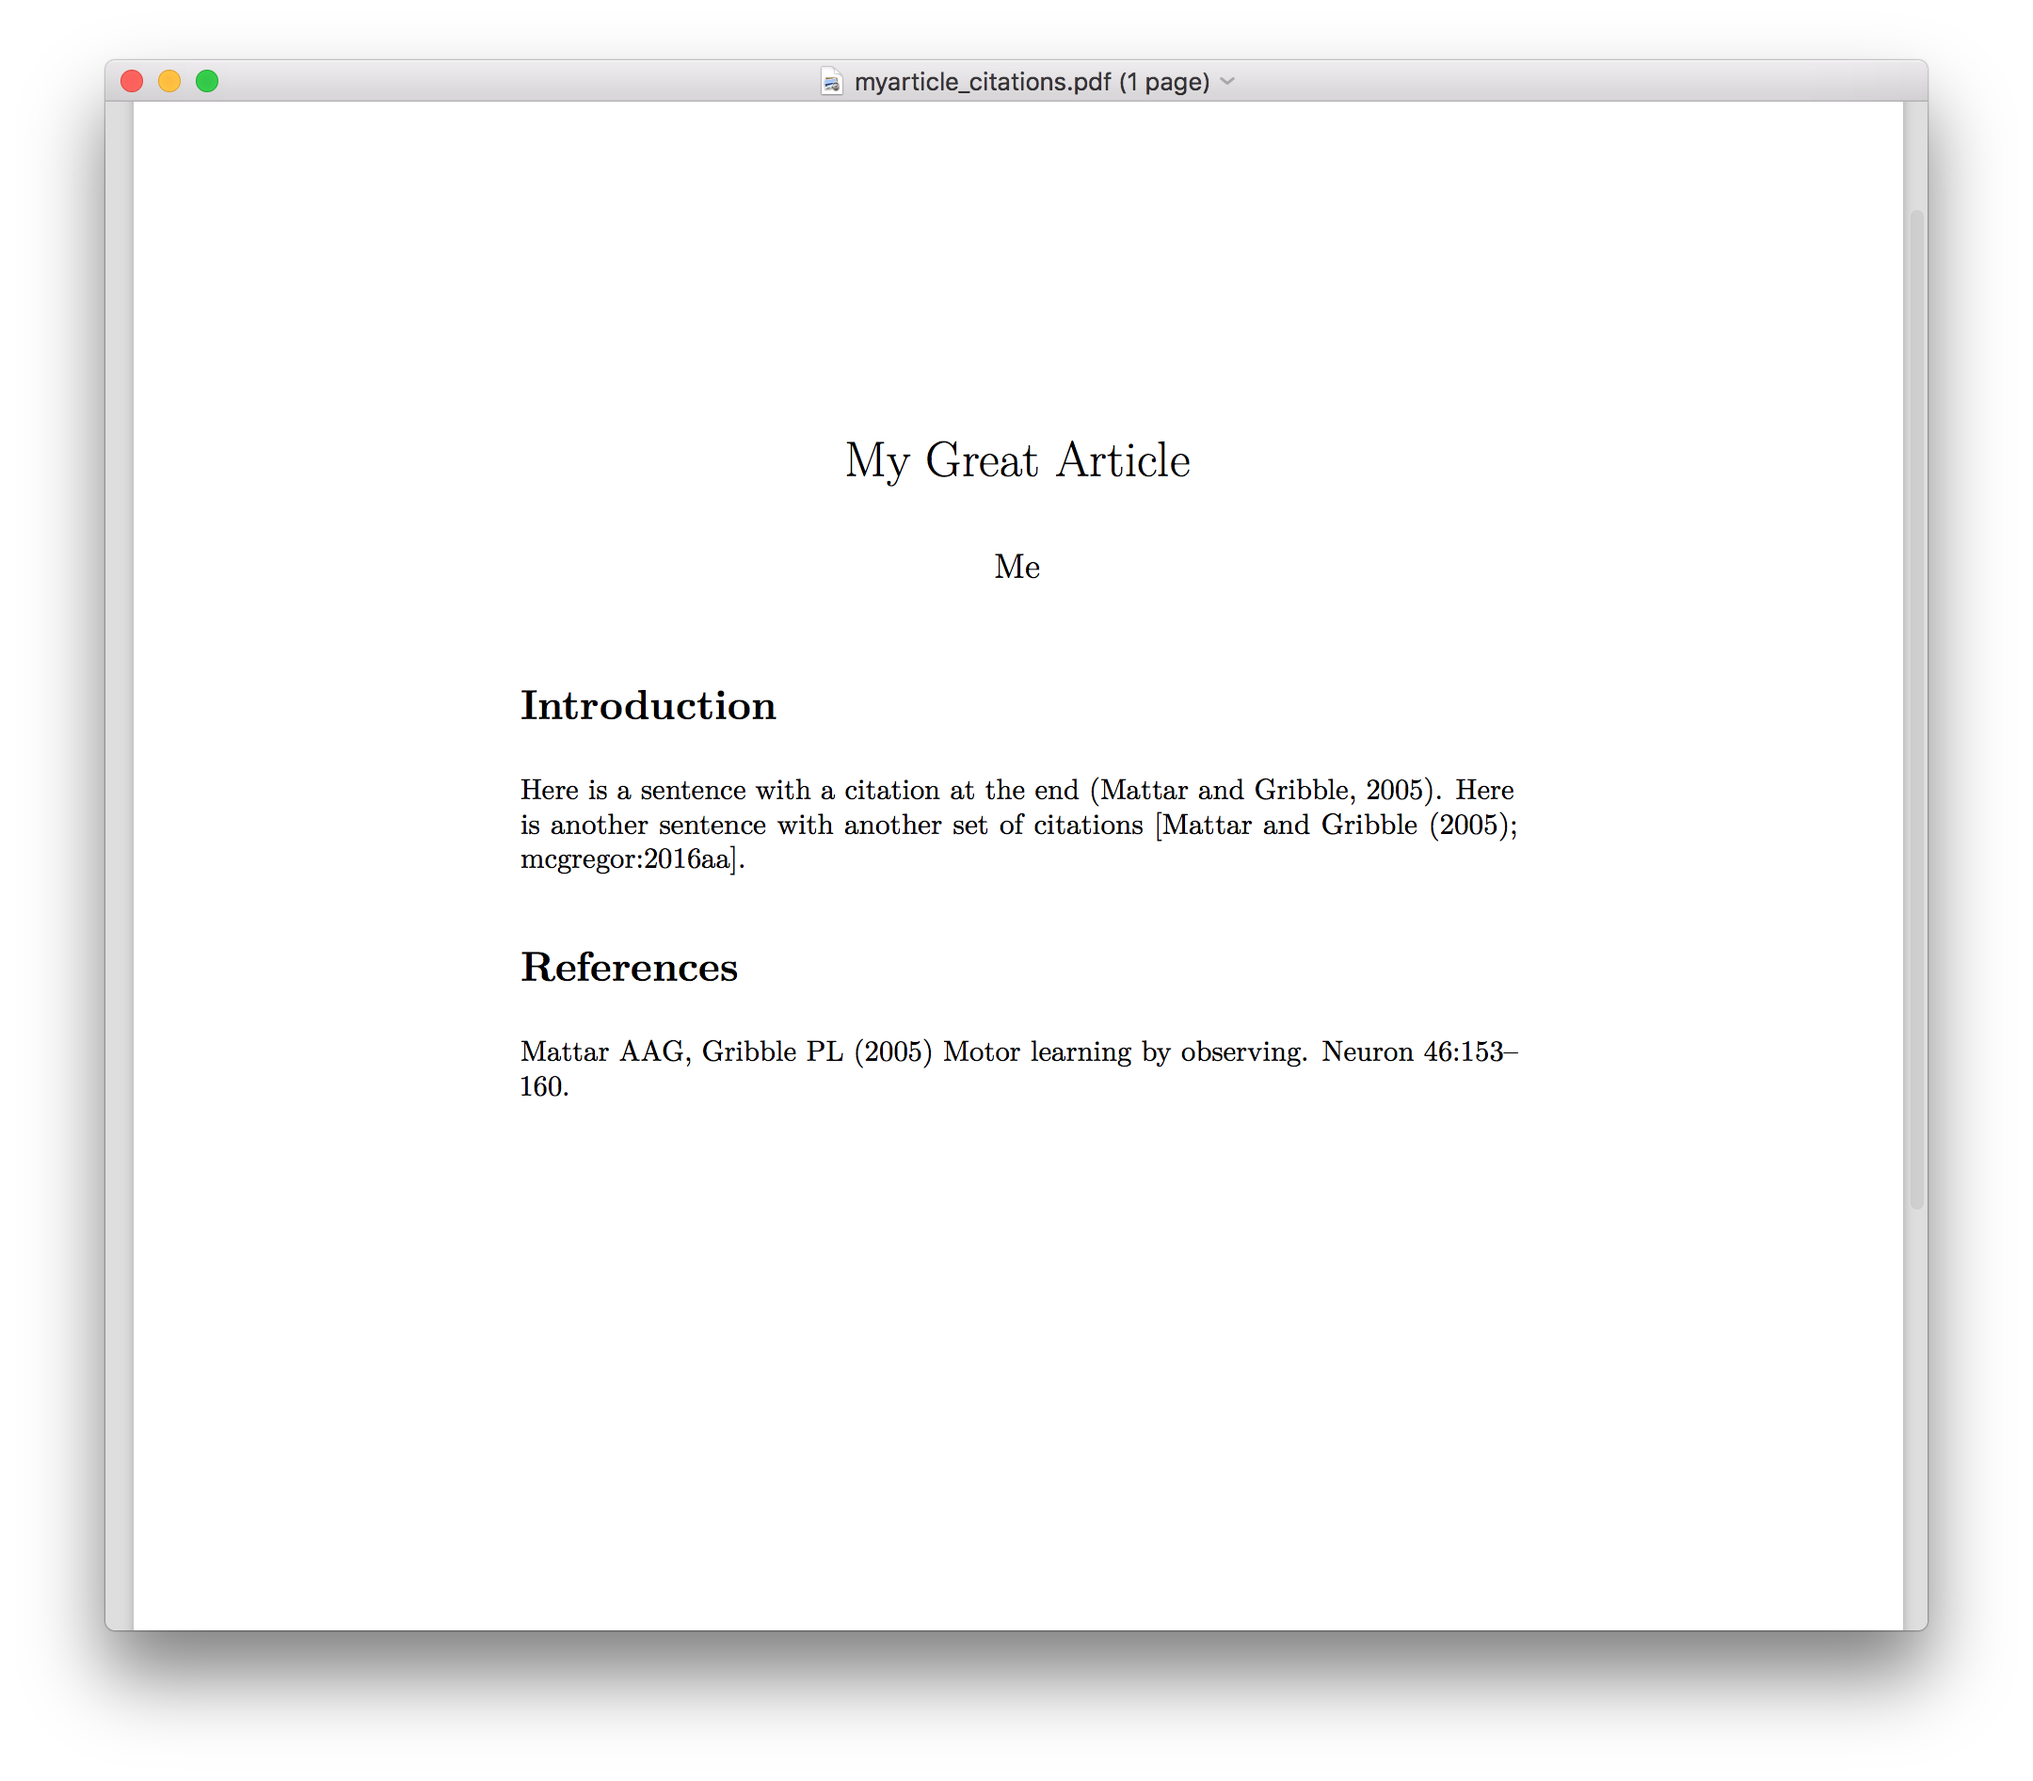
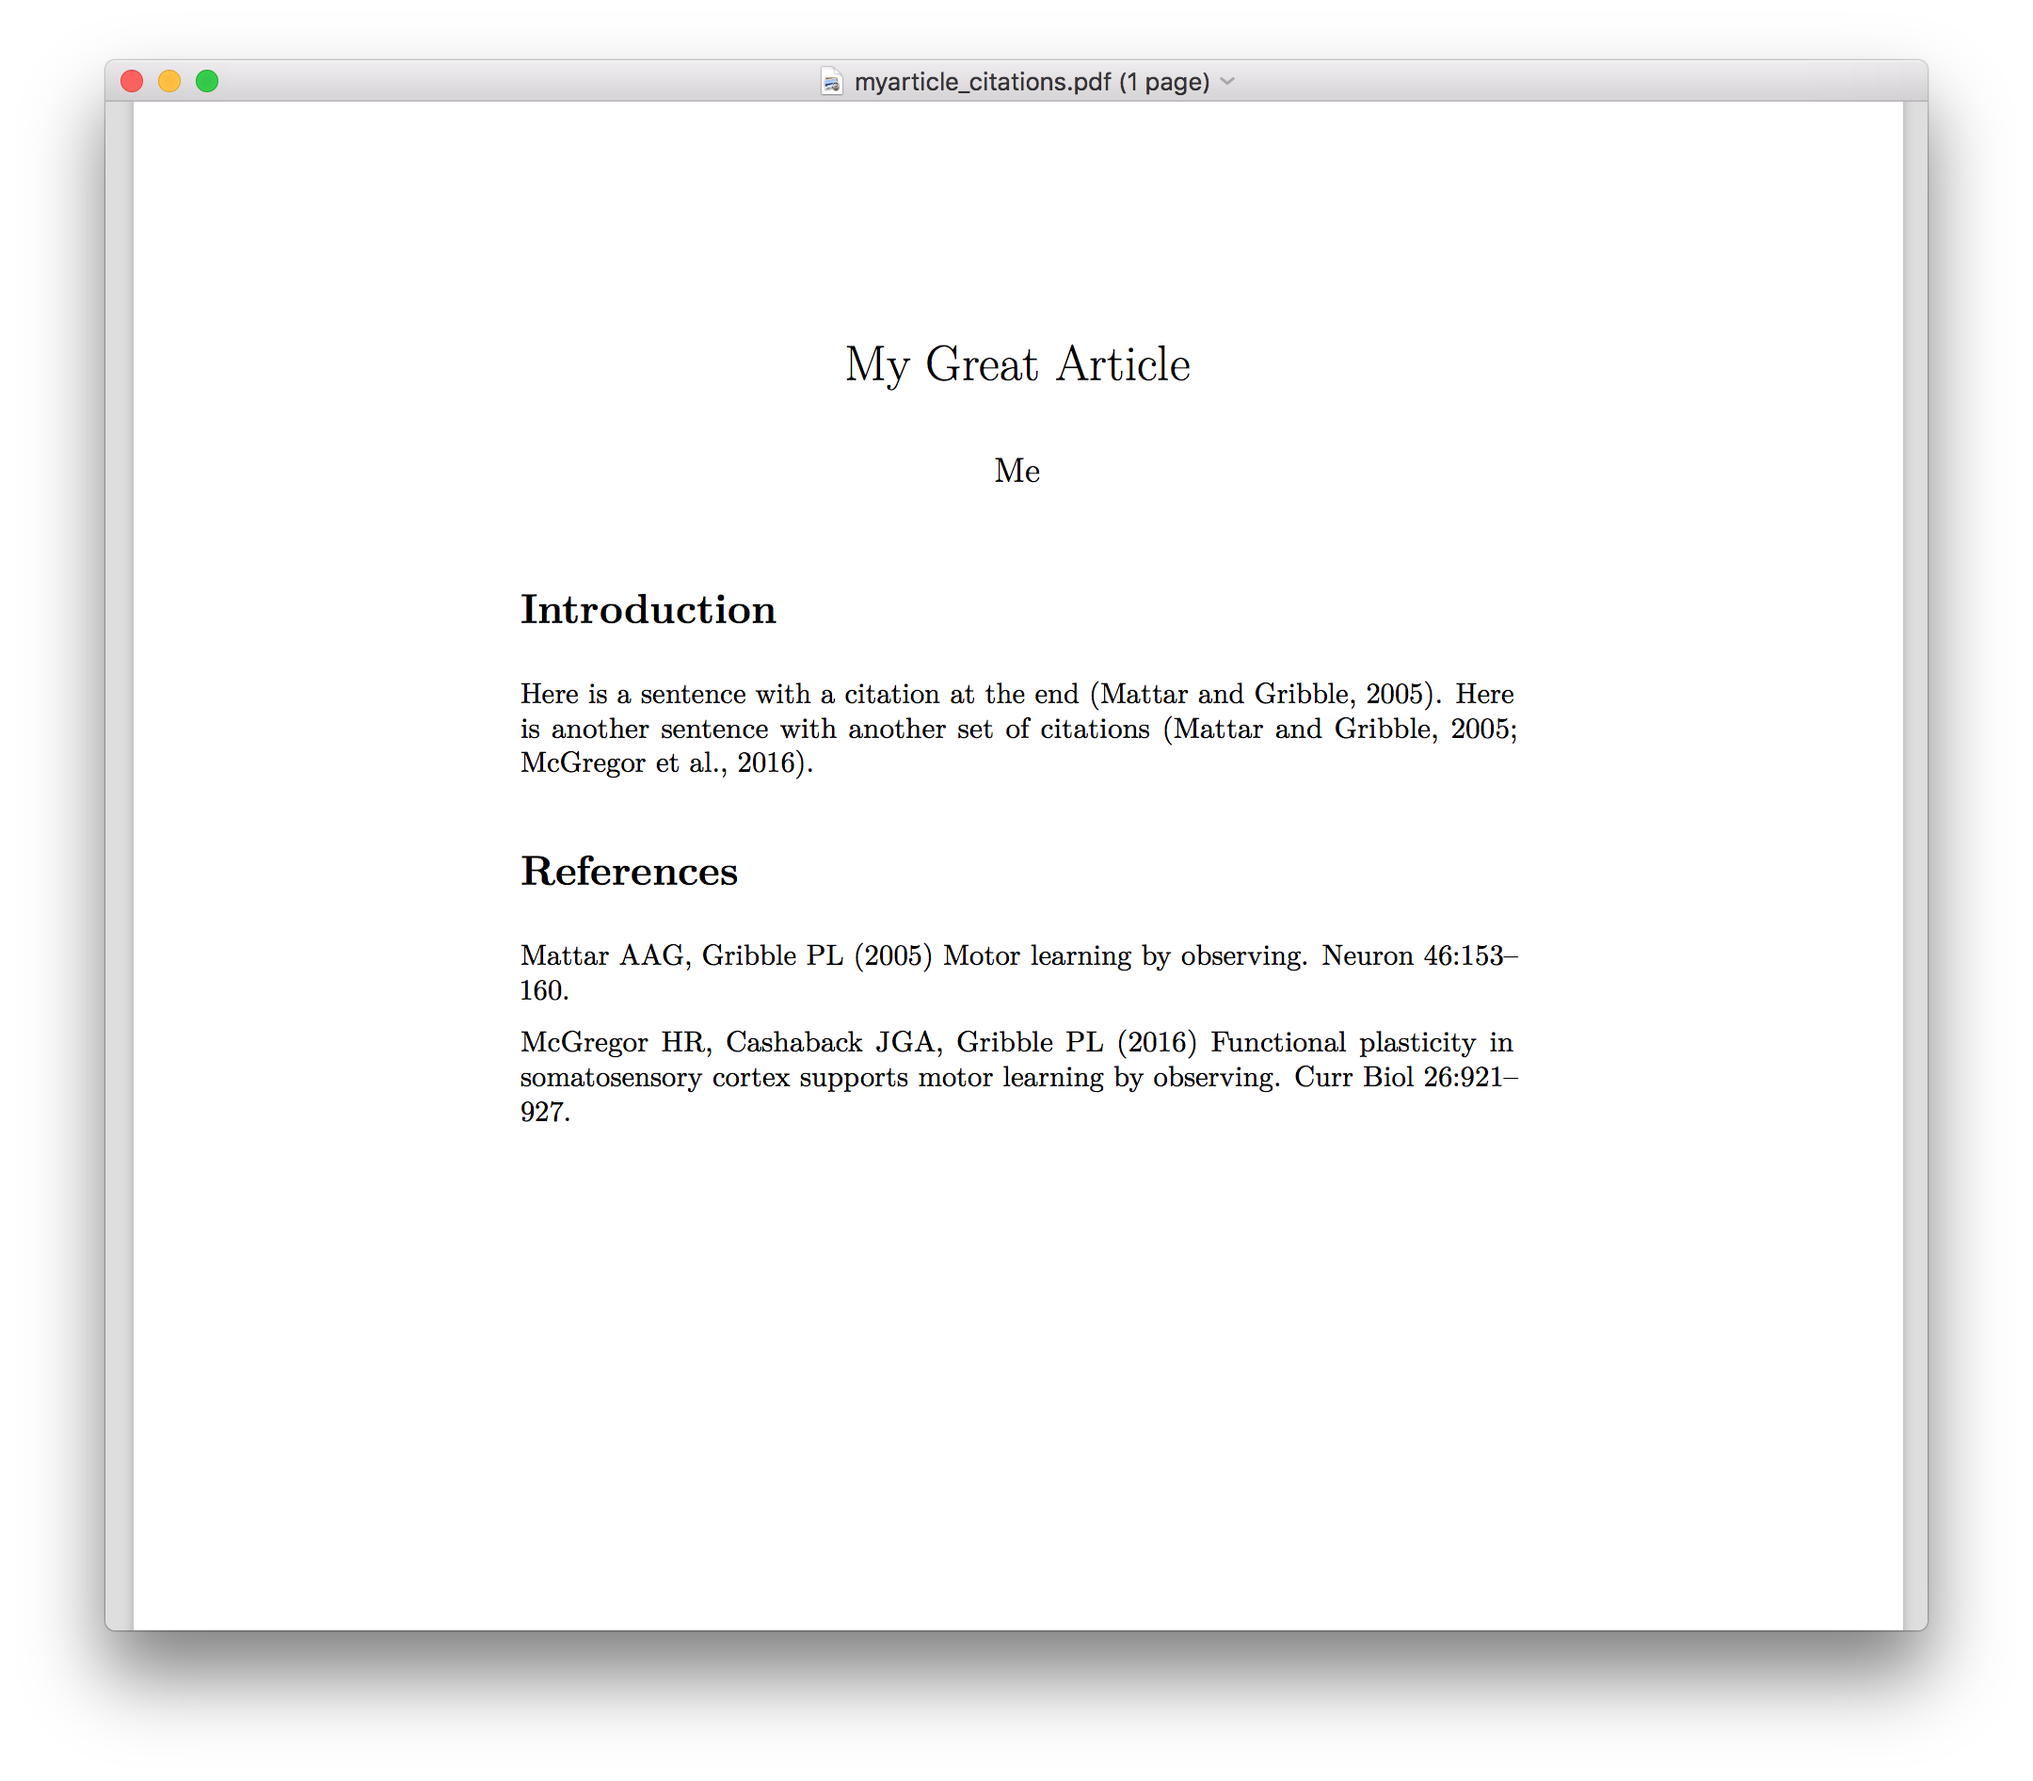
fix

diff --git a/README.md b/README.md
@@ -396,7 +396,7 @@ csl: the-journal-of-neuroscience.csl
 
 Here is a sentence with a citation at the end [@mattar:2005aa].
 Here is another sentence with another set of
-citations [@mattar:2005aa; mcgregor:2016aa].
+citations [@mattar:2005aa; @mcgregor:2016aa].
 
 # References
 

diff --git a/myarticle_citations.md b/myarticle_citations.md
@@ -9,6 +9,6 @@ csl: the-journal-of-neuroscience.csl
 
 Here is a sentence with a citation at the end [@mattar:2005aa].
 Here is another sentence with another set of
-citations [@mattar:2005aa; mcgregor:2016aa].
+citations [@mattar:2005aa; @mcgregor:2016aa].
 
 # References
